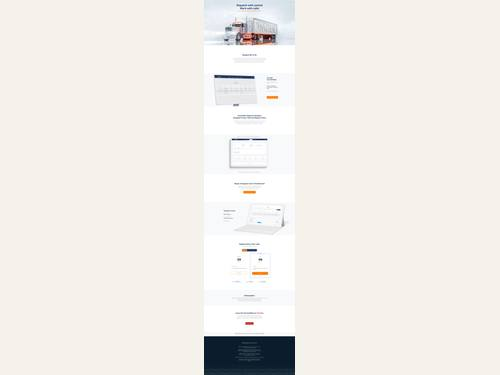
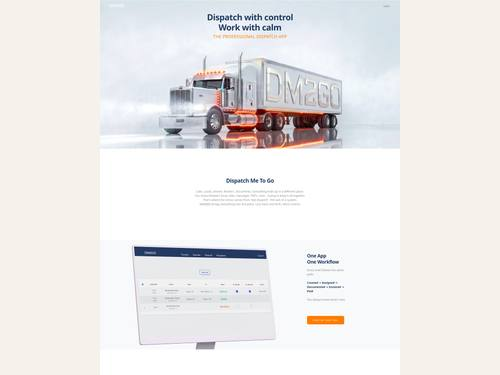
Fix DM2GO thumbnail (crop) + eliminar imagen en blanco de Empresa de Acueducto

diff --git a/js/main.js b/js/main.js
@@ -154,7 +154,7 @@ document.addEventListener('DOMContentLoaded', () => {
     { name: 'DJ', category: 'branding', thumbs: ['img/thumbs/07-00.jpg'], large: ['img/large/07-00.jpg'] },
     { name: 'Doctor Maidiel — Ginecobstetra', category: 'branding', thumbs: ['img/thumbs/08-00.jpg','img/thumbs/08-01.jpg','img/thumbs/08-02.jpg','img/thumbs/08-03.jpg'], large: ['img/large/08-00.jpg','img/large/08-01.jpg','img/large/08-02.jpg','img/large/08-03.jpg'] },
     { name: 'Doctora Leyanis — Cirujana Plástica', category: 'branding', thumbs: ['img/thumbs/09-00.jpg','img/thumbs/09-01.jpg','img/thumbs/09-02.jpg','img/thumbs/09-03.jpg'], large: ['img/large/09-00.jpg','img/large/09-01.jpg','img/large/09-02.jpg','img/large/09-03.jpg'] },
-    { name: 'Empresa de Acueducto', category: 'branding', thumbs: ['img/thumbs/10-00.jpg','img/thumbs/10-01.jpg','img/thumbs/10-02.jpg','img/thumbs/10-03.jpg','img/thumbs/10-04.jpg'], large: ['img/large/10-00.jpg','img/large/10-01.jpg','img/large/10-02.jpg','img/large/10-03.jpg','img/large/10-04.jpg'] },
+    { name: 'Empresa de Acueducto', category: 'branding', thumbs: ['img/thumbs/10-01.jpg','img/thumbs/10-02.jpg','img/thumbs/10-03.jpg','img/thumbs/10-04.jpg'], large: ['img/large/10-01.jpg','img/large/10-02.jpg','img/large/10-03.jpg','img/large/10-04.jpg'] },
     { name: 'Estilista', category: 'branding', thumbs: ['img/thumbs/11-00.jpg','img/thumbs/11-01.jpg'], large: ['img/large/11-00.jpg','img/large/11-01.jpg'] },
     { name: 'Feria de Investigación Científica', category: 'branding', thumbs: ['img/thumbs/12-00.jpg','img/thumbs/12-01.jpg','img/thumbs/12-02.jpg'], large: ['img/large/12-00.jpg','img/large/12-01.jpg','img/large/12-02.jpg'] },
     { name: 'Fitness', category: 'branding', thumbs: ['img/thumbs/13-00.jpg'], large: ['img/large/13-00.jpg'] },